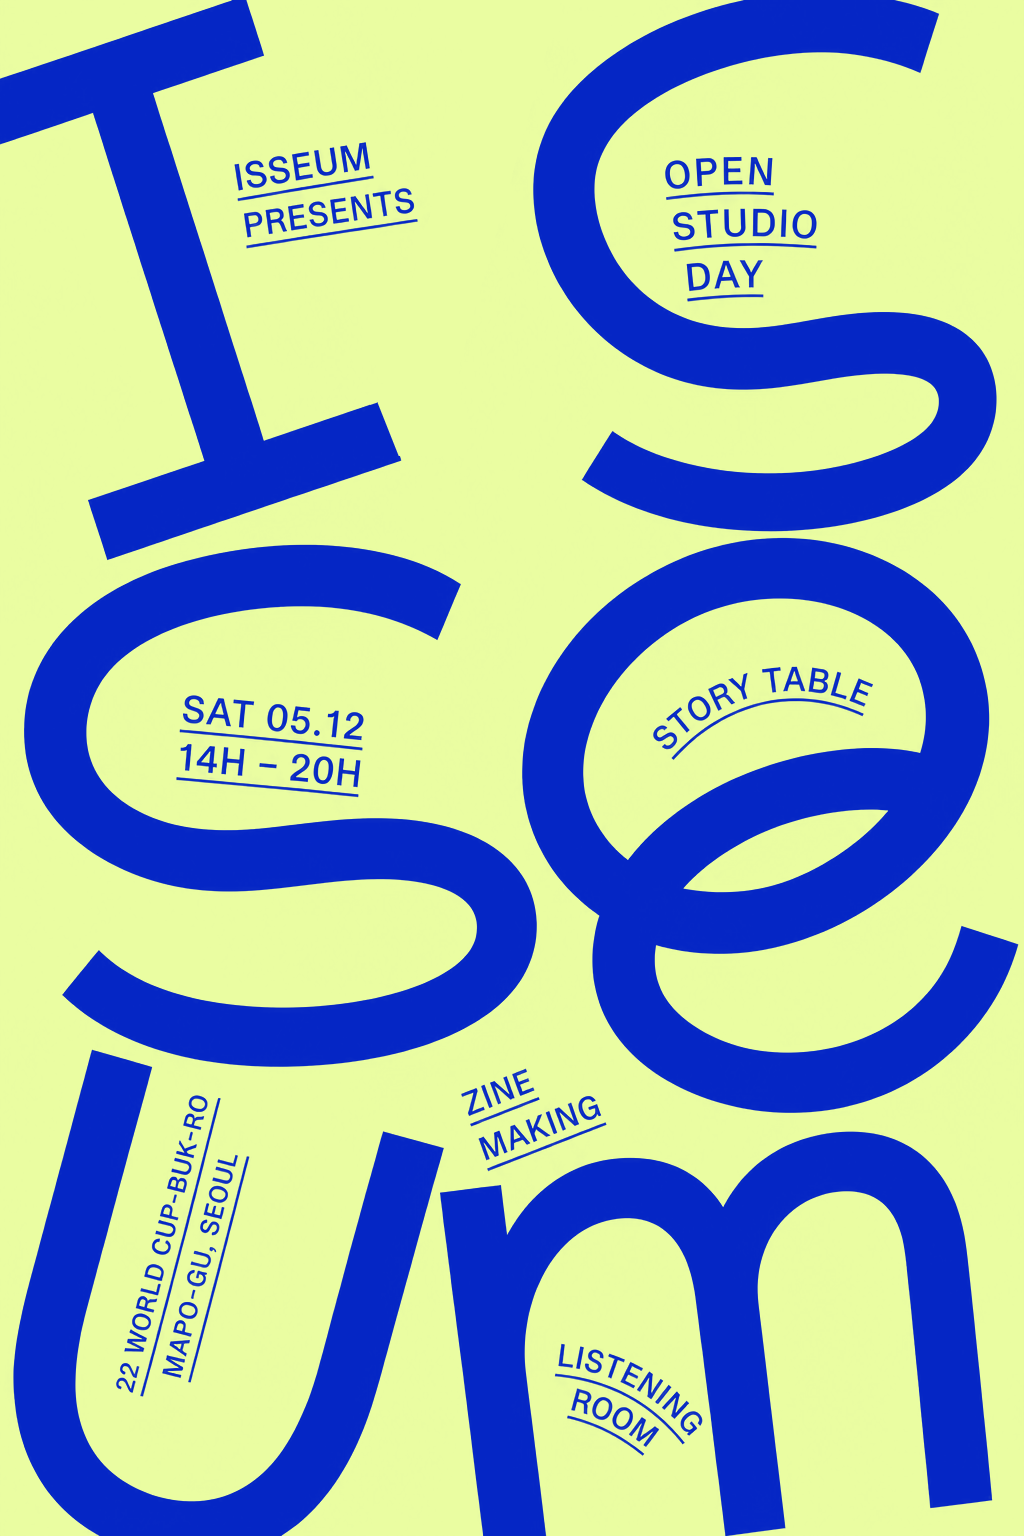
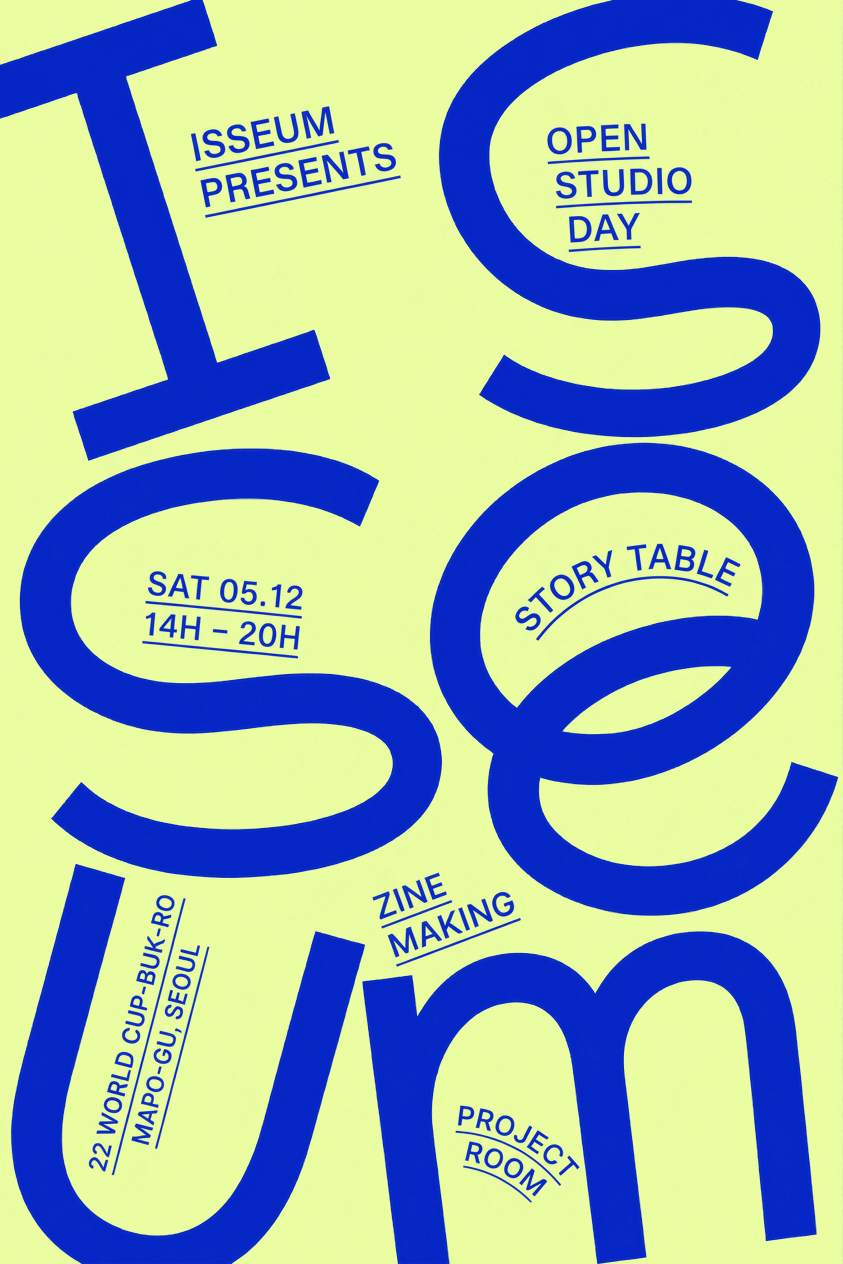
Swap P7 to the owner's larger small-text version

diff --git a/brand/posters/p7-loops/README.md b/brand/posters/p7-loops/README.md
@@ -26,3 +26,11 @@
 - 이번에도 I와 S 사이에 기울어진 막대가 생겼고, I의 아래 세리프 오른쪽 끝에 붙어 있었다(원본 1024×1536 기준
   윗변 x 493–556 → y 402에서 x 383–445). 막대를 지우고, 세리프 모서리는 윗변 · 오른쪽 변 두 직선으로 다시 그렸다.
 - 보드: 높이 1680에 맞춰 폭 1120, left 34. 캔버스 에셋 `/_blob/9265148a33ef79f9a497a0f1e680ad86`.
+
+## 2026-11-14 · 작은 글씨를 키운 판
+
+소유자가 작은 글씨를 키우고 LISTENING ROOM을 PROJECT ROOM으로 바꾼 판(843×1264)으로 `p7-full.png`를 교체.
+이번에는 I와 S 사이 막대가 없어 색만 다시 칠했다(잉크 6, 종이 230). 보드: 폭 1122, left 33.
+캔버스 에셋 `/_blob/4531e93bf70bdc330b42c79c4665604e`.
+**인쇄 전 주의**: 원본 폭 843px이라 A3(300dpi 기준 3508px)에는 해상도가 크게 모자란다. 최종본은 Recraft에서
+SVG로 내보내거나 업스케일한 파일로 다시 받아야 한다.

diff --git a/brand/decisions.md b/brand/decisions.md
@@ -635,3 +635,7 @@
 ## 2026-11-14 · P7 작은 글씨까지 Recraft 그림으로
 
 - **결정(시안)**: 작은 안내 블록이 기울고 휘고 세로로 선 Recraft 결과를 P7에 통째로 넣었다. 글자를 라임 · 코발트로 맞추고, I와 S 사이의 남는 막대를 지운 뒤 I 세리프 모서리를 다시 그렸다. 보드의 HTML 안내 블록은 지웠다(그림 안 글씨로 대체). 실제 행사에 쓰려면 날짜 · 프로그램 글씨를 다시 만들어야 한다. 그림 속 글씨라 보드에서 고칠 수 없다.
+
+## 2026-11-14 · P7 작은 글씨 키운 판
+
+- 소유자가 작은 글씨를 키우고 프로그램 하나를 PROJECT ROOM으로 바꾼 Recraft 판으로 교체했다. 색만 라임 · 코발트로 맞췄다. 인쇄하려면 SVG나 고해상도 파일이 필요하다(지금 843px 폭).
